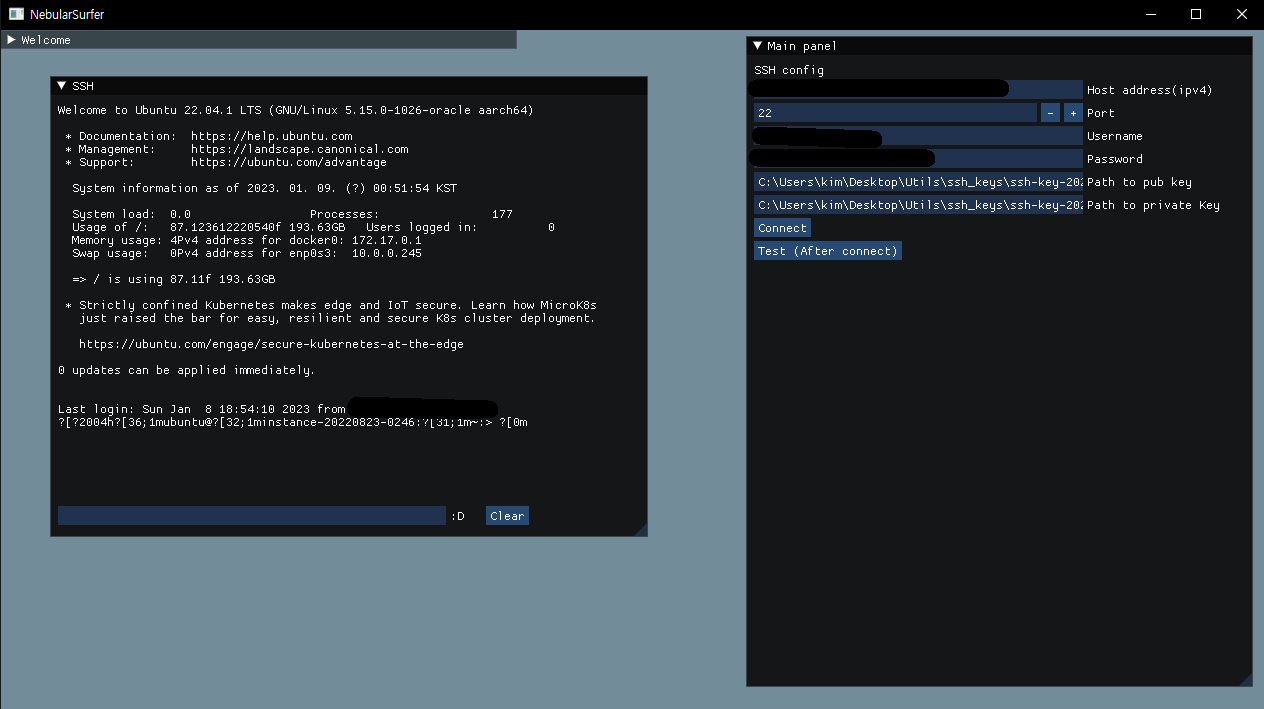
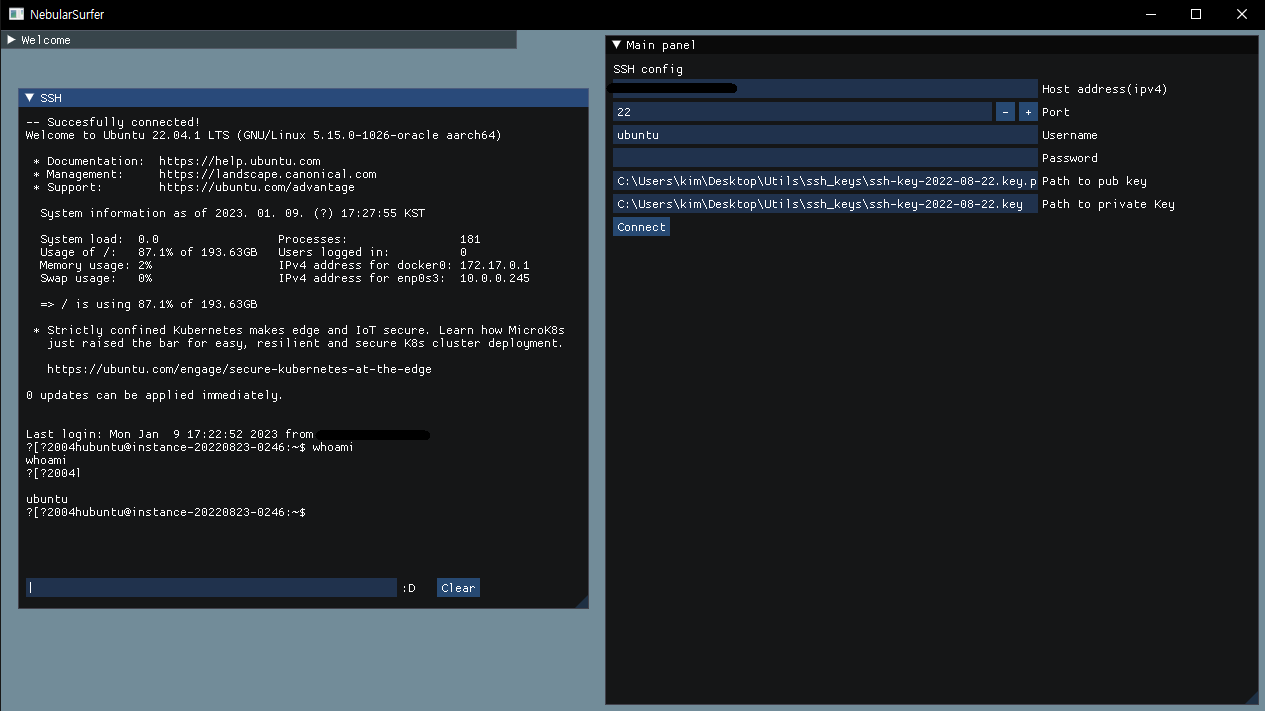
Updated!! Yeah!!!!!!!

Changed region(s): [[0.0, 0.031, 1.0, 0.9929]]

diff --git a/ssh.h b/ssh.h
@@ -2,6 +2,9 @@
 
 #define WIN32_LEAN_AND_MEAN
 
+#include "imgui/imgui.h"
+#include "imgui/imgui_stdlib.h"
+
 #include "libssh2/include/libssh2_config.h"
 #include "libssh2/include/libssh2.h"
 #include "libssh2/include/libssh2_sftp.h"
@@ -23,6 +26,8 @@ private:
 	struct sockaddr_in sin;
 	WSADATA wsadata;
 	int ssh_socket;
+	ImGuiTextBuffer mainContent;
+	std::string userInput;
 
 public:
 	std::string pathToPubKey = "";
@@ -31,17 +36,13 @@ public:
 	std::string password = "";
 	std::string host = "";
 	int port;
-	bool get_channel();
-	long long read(char*);
-	long long read_stderr(char*);
-	long long write(const char*);
-	long long write(char*, int);
-	long long write_stderr(char*, int);
+	bool init_session();
+	void textPrint(const char*);
+	void exec(const char*);
+	void Render(const char*);
 };
 
-
-
-bool SSH::get_channel() {
+bool SSH::init_session() {
 
 	if (WSAStartup(MAKEWORD(2, 0), &wsadata) != 0) {
 		fprintf(stderr, "WSAStartup failed\n");
@@ -103,62 +104,72 @@ bool SSH::get_channel() {
 		libssh2_session_free(this->session);
 	}
 
-	/* At this point the shell can be interacted with using
-	* libssh2_channel_read()
-	* libssh2_channel_read_stderr()
-	* libssh2_channel_write()
-	* libssh2_channel_write_stderr()
-	*
-	* Blocking mode may be (en|dis)abled with: libssh2_channel_set_blocking()
-	* If the server send EOF, libssh2_channel_eof() will return non-0
-	* To send EOF to the server use: libssh2_channel_send_eof()
-	* A channel can be closed with: libssh2_channel_close()
-	* A channel can be freed with: libssh2_channel_free()
-	*/
+	this->mainContent.append("-- Succesfully connected!\n");
+
+	char temp[4096];
+	memset(temp, '\0', 4096);
+	libssh2_channel_read(this->channel, temp, 4096);
+
+	this->mainContent.append(temp);
+	memset(temp, '\0', 4096);
+	libssh2_channel_read(this->channel, temp, 4096);
+
+	this->mainContent.append(temp);
 
 	fprintf(stderr, "-- All done!\n\n");
 
 	return true;
 }
 
-long long SSH::read(char* res) {
-	libssh2_channel_set_blocking(this->channel, 0);
+void SSH::exec(const char* buf) {
+	int rc;
+	char response[4096];
+	memset(response, '\0', 4096);
 
-	int rc = libssh2_channel_read(this->channel, res, 32760);
-	
-	libssh2_channel_set_blocking(this->channel, 1);
+	char temp[2048];
+	memset(temp, '\0', 2048);
+	strcat_s(temp,2048, buf);
+	strcat_s(temp,2048 ,"\n"); // idk why, but without "\n" libssh2_channel_read doesn't work in way I expected.
 
-	return rc;
+	rc = libssh2_channel_write(channel, temp, strlen(temp));
+	//libssh2_channel_send_eof(this->channel);
+
+	rc = libssh2_channel_read(channel, response, 4096);
+
+	if (rc > 0) this->mainContent.appendf("%s\n", response);
+	else fprintf(stderr, "Error %d\n", rc);
+
 }
 
-long long SSH::read_stderr(char* res) {
-	libssh2_channel_set_blocking(this->channel, 0);
+// Responsible for ANSI Escape Code interpretation and print
+void SSH::textPrint(const char* buf) {
 
-	int rc = libssh2_channel_read_stderr(this->channel, res, 32760);
+	//\x1b[?2004h    WTF???? What the fuck is this ANSI escape code?
 
-	libssh2_channel_set_blocking(this->channel, 1);
-
-	return rc;
 }
 
-long long SSH::write(const char* buf) {
-	bool ended = false;
-	int idx = 0;
-	do {
-		if (buf[idx] == '\0') ended = true; // Let's find the end~
-		else idx -= -1; // Beautiful code
-	} while (ended); 
+void SSH::Render(const char* title) {
 
-	int rc = libssh2_channel_write(this->channel, buf, idx);
-	return rc;
-}
+	ImGui::Begin(title);
 
-long long SSH::write(char* buf, int bufSize) {
-	int rc = libssh2_channel_write(this->channel, buf, bufSize);
-	return rc;
-}
+	if (ImGui::BeginChild("scrolling", ImVec2(0, -(ImGui::GetStyle().ItemSpacing.y + ImGui::GetFrameHeightWithSpacing())), false, ImGuiWindowFlags_HorizontalScrollbar))
+	{
+		ImGui::PushStyleVar(ImGuiStyleVar_ItemSpacing, ImVec2(0, 0));
+		ImGui::TextUnformatted(this->mainContent.begin()); // I'll use textPrint() func because of asni escape codes.
+		ImGui::PopStyleVar();
+	}
 
-long long SSH::write_stderr(char* buf, int bufSize) {
-	int rc = libssh2_channel_write_stderr(this->channel, buf, bufSize);
-	return rc;
+	ImGui::EndChild();
+
+	if (ImGui::InputText(":D  ", &this->userInput, ImGuiInputTextFlags_EnterReturnsTrue)) {
+		this->mainContent.appendf("%s\n",this->userInput.c_str());
+		ImGui::SetItemDefaultFocus();
+		ImGui::SetKeyboardFocusHere(-1);
+		this->exec(this->userInput.c_str());
+		this->userInput = "";
+	}
+	ImGui::SameLine();
+	if (ImGui::Button("Clear")) { this->mainContent.clear(); }
+
+	ImGui::End();
 }

diff --git a/NebularSurfer.cpp b/NebularSurfer.cpp
@@ -8,7 +8,6 @@ Base source from imgui\examples\example_win32_directx9\main.cpp
 #include <Windows.h>
 
 #include "ssh.h"
-#include "aHeaderFilewhichDefinesAStructAboutImGuiWindow.h"
 
 #include "imgui/imgui.h"
 #include "imgui/imgui_impl_dx9.h"
@@ -29,7 +28,6 @@ void ResetDevice();
 LRESULT WINAPI WndProc(HWND hWnd, UINT msg, WPARAM wParam, LPARAM lParam);
 
 SSH ssh;
-SSHW sshw;
 #ifdef _DEBUG
 int main(int argc, char* argv[])
 #else
@@ -111,18 +109,7 @@ int APIENTRY wWinMain(HINSTANCE hInstance, HINSTANCE hPrevInstance, LPWSTR pCmdL
             ImGui::InputText("Path to private Key", &ssh.pathToPrivKey);
             
             if (ImGui::Button("Connect")) {
-                ssh.get_channel();
-            }
-
-            if (ImGui::Button("Test (After connect)")) {
-                char res[32768];
-                memset(res, '\0', 32768);
-                long long cnt = ssh.read(res);
-                
-                if (cnt > 0) {
-                    sshw.appendContent(res);
-                } else fprintf(stderr, "No data\n");
-
+                ssh.init_session();
             }
 
             ImGui::End();
@@ -130,7 +117,7 @@ int APIENTRY wWinMain(HINSTANCE hInstance, HINSTANCE hPrevInstance, LPWSTR pCmdL
 
         {
             ImGui::Begin("SSH");
-            sshw.Render("SSH", &ssh);
+            ssh.Render("SSH");
             ImGui::End();
         }
 
